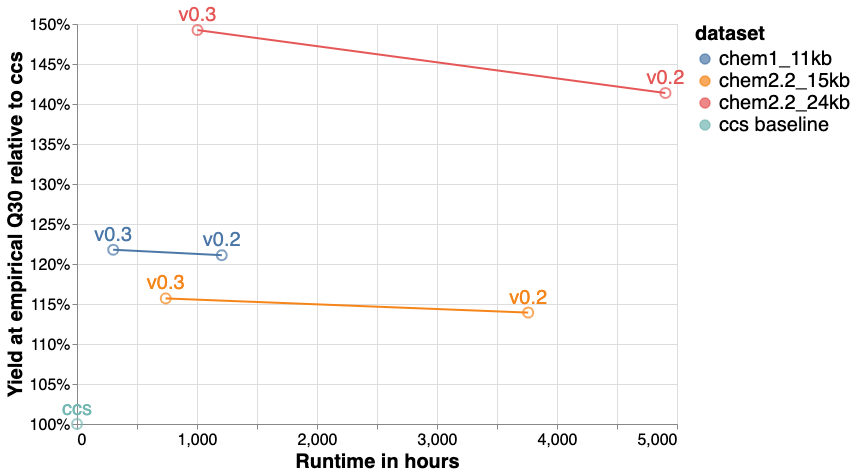
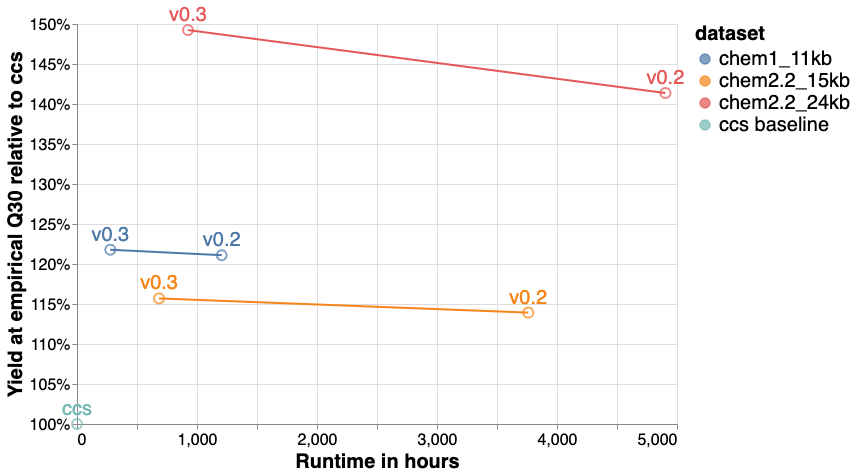
Update yield metrics page after rerunning with checkpoint instead of savedmodel.
PiperOrigin-RevId: 458664424

diff --git a/docs/yield_metrics.md b/docs/yield_metrics.md
@@ -44,21 +44,21 @@ m64014_200920_132517 | HG002  | 2.2       | 24 kb
       <td>121.78%</td>
       <td>4.06 Gb</td>
       <td>167.33%</td>
-      <td>301.46</td>
+      <td>277.68</td>
     </tr>
     <tr>
       <td>v0.3</td>
       <td>m64008_201124_002822</td>
       <td>chem2.2_15kb</td>
       <td>2,689,147</td>
-      <td>2,864,910</td>
+      <td>2,864,908</td>
       <td>42.41 Gb</td>
       <td>106.09%</td>
       <td>30.41 Gb</td>
       <td>115.70%</td>
       <td>7.54 Gb</td>
       <td>191.51%</td>
-      <td>739.09</td>
+      <td>683.97</td>
     </tr>
     <tr>
       <td>v0.3</td>
@@ -72,7 +72,7 @@ m64014_200920_132517 | HG002  | 2.2       | 24 kb
       <td>149.24%</td>
       <td>1.60 Gb</td>
       <td>462.97%</td>
-      <td>1,003.86</td>
+      <td>925.01</td>
     </tr>
   </tbody>
 </table>
@@ -92,11 +92,9 @@ follows:
     e.g. 40% percent means that DeepConsensus increased yield of high quality
     reads in bases by 40% over CCS.
 
-These were run on GCP `n1-standard-32` machines with no GPU (in 500 shards,
-combined above), with `--batch_zmws=500 --batch_size=1024`. However, in our
-runtime tests we find that using `n1-standard-16` VMs with `--batch_zmws=100
---batch_size=1024` has similar runtime with fewer CPUs and memory needed. For
-more information on compute setups, see the
+These were run on GCP `n1-standard-16` machines with no GPU (in 500 shards,
+combined above), with `--batch_zmws=100 --batch_size=1024`, which is generally
+what we recommend. For more information on compute setups, see the
 [runtime metrics page](runtime_metrics.md).
 
 ## Runtime-yield tradeoffs with `--skip_windows_above`
